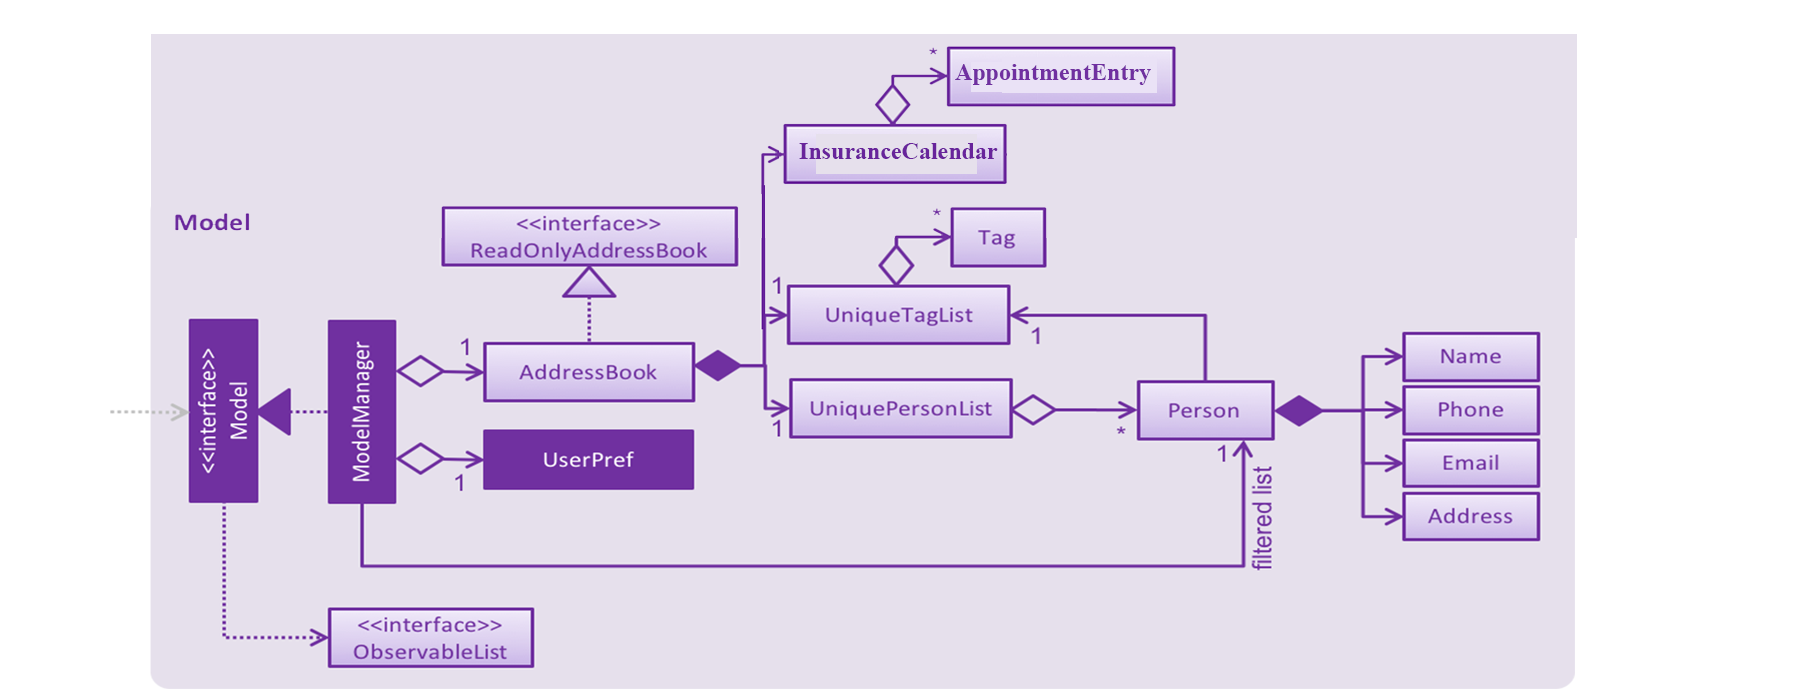
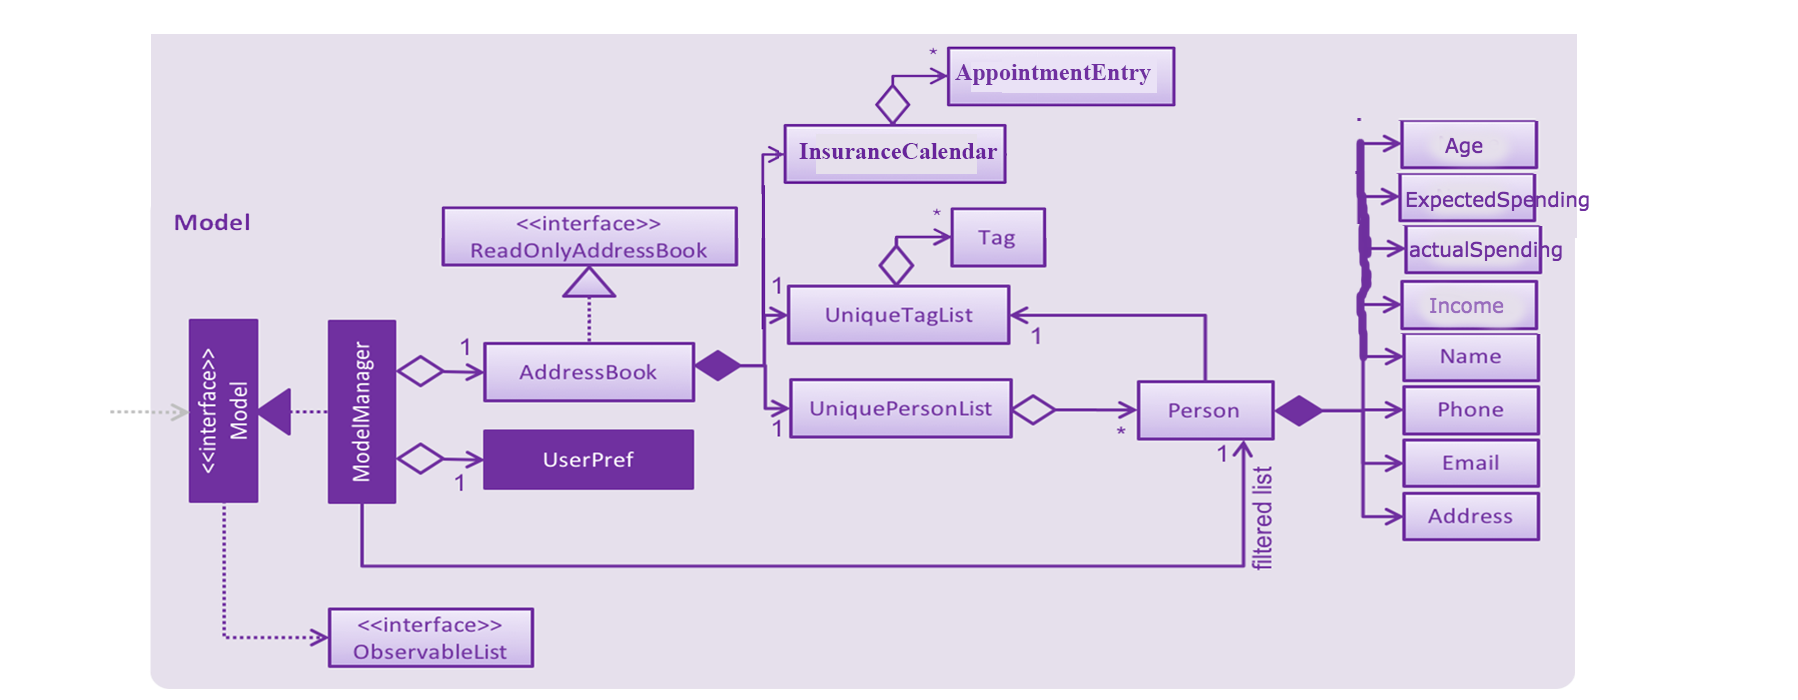
Rebuild pages at 36ddff949393098555cb1d236deabf0a39a13386

Changed region(s): [[0.7475, 0.15, 0.9032, 0.51]]

diff --git a/UserGuide.html b/UserGuide.html
@@ -611,12 +611,27 @@ The <code>redo</code> command fails as there are no <code>undo</code> commands e
 <ul>
 <li>
 <p><code>Initially</code><br>
-two customers one with <code>actualSpending</code> &gt; 0 while the other with
-<code>actualSpending</code> == 0.</p>
+two customers with <code>actualSpending</code> &gt; 0 while the other with
+<code>actualSpending</code> == 0(actual spending will actually not be shown
+if it is zero).</p>
 </li>
 <li>
 <p><code>After</code><br>
 The customer with <code>actualSpending</code> == 0 now has <code>expectedSpending</code> shown.</p>
+</li>
+</ul>
+</div>
+<div class="paragraph">
+<p>Other Specification:</p>
+</div>
+<div class="ulist">
+<ul>
+<li>
+<p>When adding an new <code>Person</code>, the <code>/as</code>(Actual Spending) is optional.
+if the actual spending is specified, the person is considered as existing
+customer. Otherwise potential customer. The prediction is to predict
+the potential customer&#8217;s spending based on the information on the
+existing customers.</p>
 </li>
 </ul>
 </div>
@@ -769,7 +784,7 @@ e.g.<code>select 2</code></p>
 </div>
 <div id="footer">
 <div id="footer-text">
-Last updated 2018-03-31 17:45:50 UTC
+Last updated 2018-04-02 07:21:06 UTC
 </div>
 </div>
 </body>

diff --git a/LearningOutcomes.html b/LearningOutcomes.html
@@ -561,7 +561,7 @@ class gives some examples of how to use <em>Equivalence Partitions</em>, <em>Bou
 </div>
 <div id="footer">
 <div id="footer-text">
-Last updated 2018-03-31 17:45:50 UTC
+Last updated 2018-04-02 07:21:06 UTC
 </div>
 </div>
 </body>

diff --git a/UsingCoveralls.html b/UsingCoveralls.html
@@ -115,7 +115,7 @@ If you have not set up Travis CI, see <a href="UsingTravis.html">UsingTravis.ado
 </div>
 <div id="footer">
 <div id="footer-text">
-Last updated 2018-03-31 17:45:50 UTC
+Last updated 2018-04-02 07:21:06 UTC
 </div>
 </div>
 </body>

diff --git a/UsingGradle.html b/UsingGradle.html
@@ -261,7 +261,7 @@ See <code>build.gradle</code> &#8594; <code>allprojects</code> &#8594; <code>dep
 </div>
 <div id="footer">
 <div id="footer-text">
-Last updated 2018-03-31 17:45:50 UTC
+Last updated 2018-04-02 07:21:06 UTC
 </div>
 </div>
 </body>

diff --git a/UsingNetlify.html b/UsingNetlify.html
@@ -142,7 +142,7 @@ The publish directory is the directory in which the built HTML documentation res
 </div>
 <div id="footer">
 <div id="footer-text">
-Last updated 2018-03-31 17:45:50 UTC
+Last updated 2018-04-02 07:21:06 UTC
 </div>
 </div>
 </body>

diff --git a/team/johndoe.html b/team/johndoe.html
@@ -561,7 +561,7 @@ If the <code>redoStack</code> is empty, then there are no other commands left to
 </div>
 <div id="footer">
 <div id="footer-text">
-Last updated 2018-03-31 17:45:50 UTC
+Last updated 2018-04-02 07:21:06 UTC
 </div>
 </div>
 </body>

diff --git a/UsingTravis.html b/UsingTravis.html
@@ -299,7 +299,7 @@ Suggested change: Remove the codacy badge from <code>README</code>.</p>
 </div>
 <div id="footer">
 <div id="footer-text">
-Last updated 2018-03-31 17:45:50 UTC
+Last updated 2018-04-02 07:21:06 UTC
 </div>
 </div>
 </body>

diff --git a/UsingCheckstyle.html b/UsingCheckstyle.html
@@ -103,7 +103,7 @@ Restart the IDE to complete the installation.</p>
 </div>
 <div id="footer">
 <div id="footer-text">
-Last updated 2018-03-31 17:45:50 UTC
+Last updated 2018-04-02 07:21:06 UTC
 </div>
 </div>
 </body>

diff --git a/DeveloperGuide.html b/DeveloperGuide.html
@@ -2728,7 +2728,7 @@ Expected: Similar to previous.</p>
 </div>
 <div id="footer">
 <div id="footer-text">
-Last updated 2018-03-31 17:45:50 UTC
+Last updated 2018-04-02 07:21:06 UTC
 </div>
 </div>
 </body>

diff --git a/TestDocument.html b/TestDocument.html
@@ -178,7 +178,7 @@ This should be on a new line.</p>
 </div>
 <div id="footer">
 <div id="footer-text">
-Last updated 2018-03-31 17:45:50 UTC
+Last updated 2018-04-02 07:21:06 UTC
 </div>
 </div>
 </body>

diff --git a/AboutUs.html b/AboutUs.html
@@ -129,7 +129,7 @@ Responsibilities: UI</p>
 </div>
 <div id="footer">
 <div id="footer-text">
-Last updated 2018-03-31 17:45:50 UTC
+Last updated 2018-04-02 07:21:06 UTC
 </div>
 </div>
 </body>

diff --git a/UsingAppVeyor.html b/UsingAppVeyor.html
@@ -174,7 +174,7 @@ grant access:</p>
 </div>
 <div id="footer">
 <div id="footer-text">
-Last updated 2018-03-31 17:45:50 UTC
+Last updated 2018-04-02 07:21:06 UTC
 </div>
 </div>
 </body>
